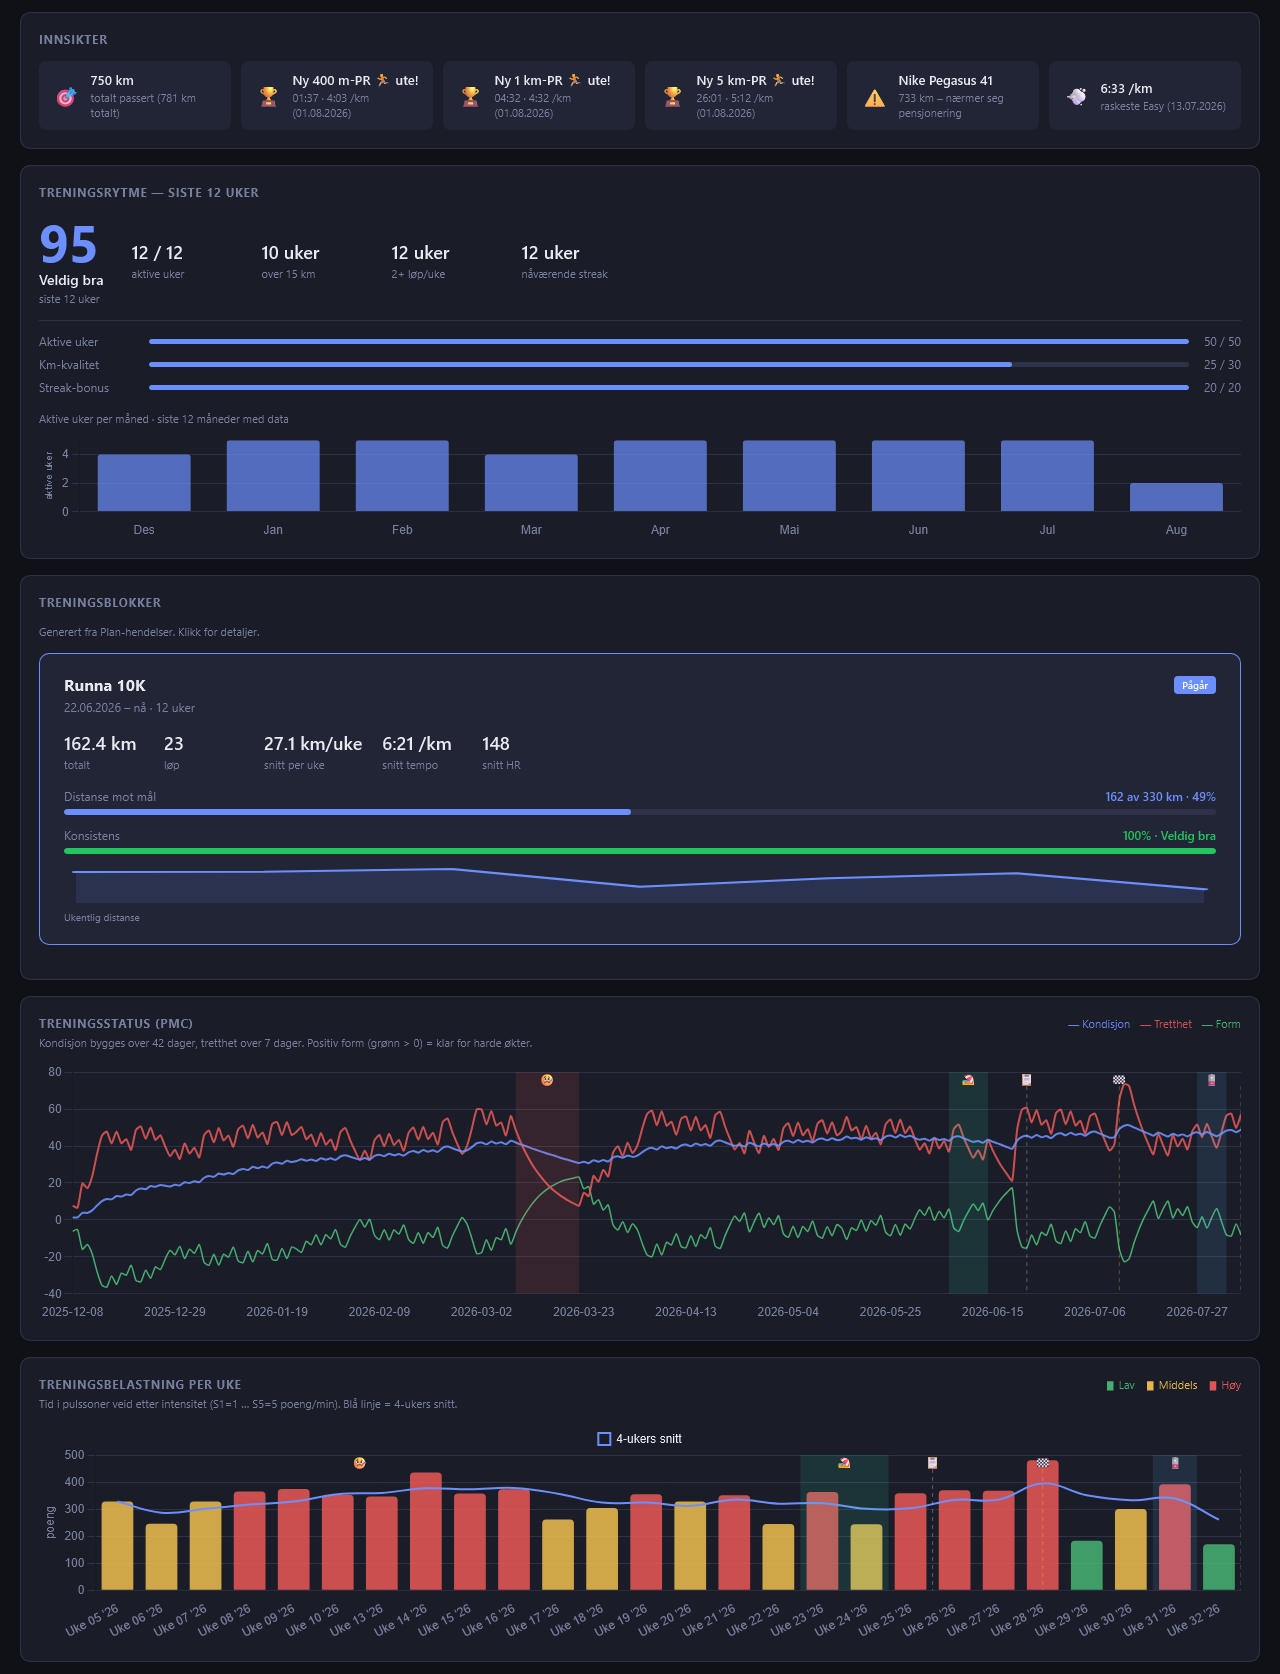
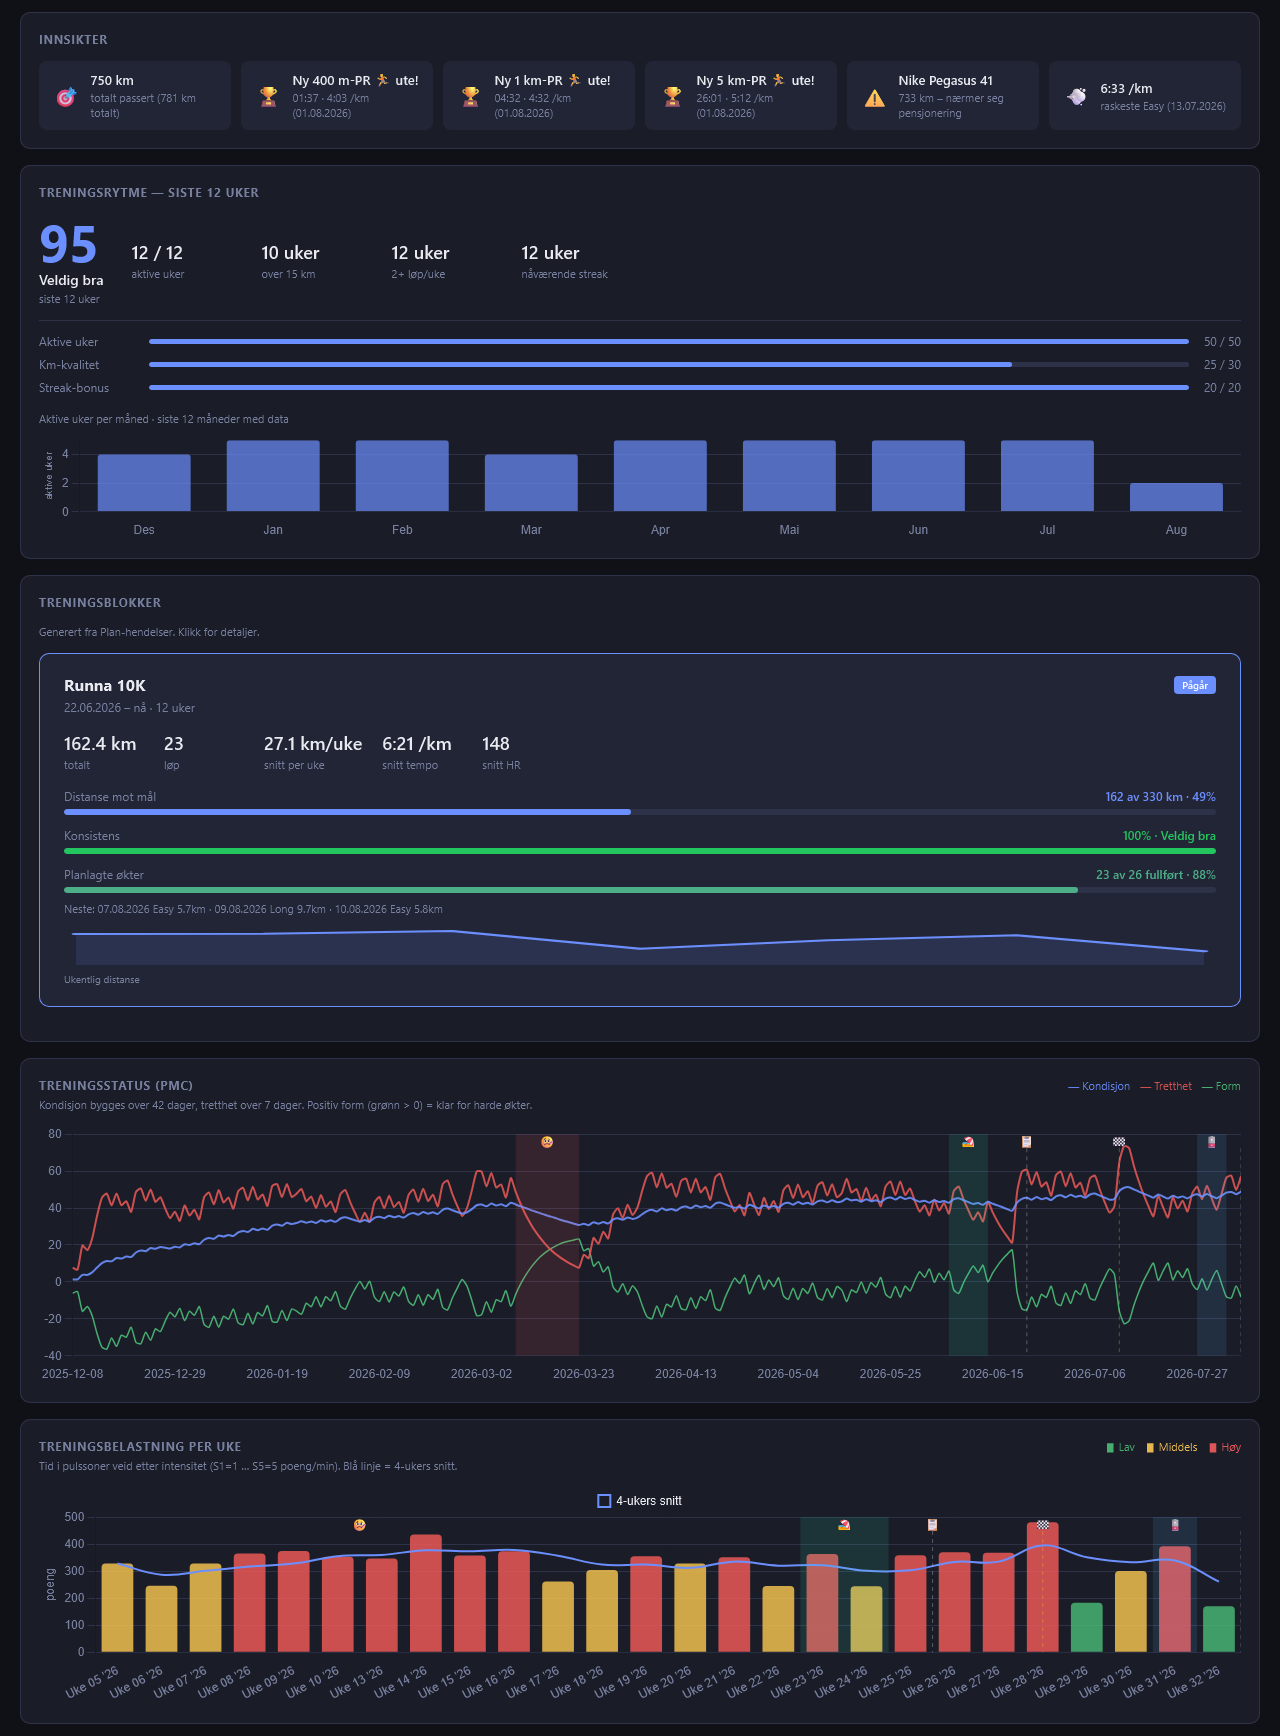
Docs: tools.png screenshot, and a plan in the screenshot fixture
The Verktoy tab shipped without an image, and the synthetic fixture had
plannedSessions: [] - so the week plan on Denne uken, the Planlagte okter
adherence bar in the active-block card and the plan rows in the week
drill-down were invisible in every screenshot.

- new screenshots/tools.png: all three calculators, filled with the
  README worked examples so the shot shows answers, not empty forms
- fixture now carries the Runna 10K block as an imported plan, in
  parseRunnaIcs shape, matching the logged sessions weekday-for-weekday
- dashboard.png + charts.png regenerated; atlas.png picked up the
  Verktoy tab it was missing (badges.png crops below the nav: identical)

diff --git a/README.md b/README.md
@@ -126,6 +126,8 @@ An **Alle · Fullførte · Gjenstår** filter switches between every badge, the 
 ### 🧮 Verktøy (own tab)
 Stateless calculators. **None of them read your data** — that is the defining rule of the tab, not an implementation detail: they have to answer for paces you have never run (a plan target, someone else's race, a goal you are not yet fit for). Nothing here is saved, so nothing here can go stale.
 
+![Verktøy — Tempo ↔ km/t, Tid og tempo and Intervaller](screenshots/tools.png)
+
 - **Tempo ↔ km/t** — your plan and targets are written in **pace** (min/km) but a treadmill is set in **speed** (km/t), so the conversion comes up before most indoor sessions — and again when reading someone else's run. Type either side and the other follows, rounded to one decimal because that's what a treadmill accepts. Below it a reference table from 4:30 to 12:00 per km (coarser below 9:00, where 15-second resolution would be false precision), with the row nearest your current value highlighted, so an answer arrives with its neighbours rather than alone. The arithmetic is **speed, not effort** — outdoors you work against air resistance and on a belt you don't; the 1% incline the log form defaults to is the standard correction for exactly that
 - **Tid og tempo** — one card, two modes, because they are the same arithmetic in opposite directions. **Sluttid**: distance + pace → finish time and average speed ("10 km at 6:15 → 1:02:30, 9.6 km/t"). **Måltempo**: distance + target time → the pace it actually takes ("5 km in 29:30 → 5:54/km"), with round **Sub-30 / Sub-27:30** style chips bracketing whatever you typed — generated from the value in the box, never from your PRs, so they stay useful as you get faster and still work for a distance you have never raced. Both modes share a distance picker (free km entry plus presets from 400 m to marathon, matching the Distanse-PR table so the labels mean the same thing) and a **split table** — every kilometre up to 10, then every five, always ending on the real distance, so a marathon is 17 rows rather than 42. Switching mode keeps the distance you already picked
 - **Intervaller** — turns a prescription into the numbers you need standing at the belt. The loudest line is deliberately the one you read in the ten seconds before starting: **"Sett farten til 10.9 km/t · Løp i 2:12"**. Below it, per-interval and session totals — work distance, work time, recovery time and the whole block. Works from either direction: `6 × 400 m @ 5:30` or `5 × 3 min @ 10.5 km/t`. **Six reps means five recoveries**, and the count is printed rather than implied, since getting it wrong misstates the block by a whole recovery; a checkbox adds a trailing recovery when the session has one. Recovery entered as a *distance* leaves the block duration blank **with the reason attached** — how long 200 m takes depends on a recovery pace you haven't given, and a plausible invented number is worse than an honest gap. A **distance ladder** at the entered pace (200 m → 1 km) covers pyramids and ladders, which normally hold one pace and vary only the distance, so the belt setting never changes and only the rep times are missing
